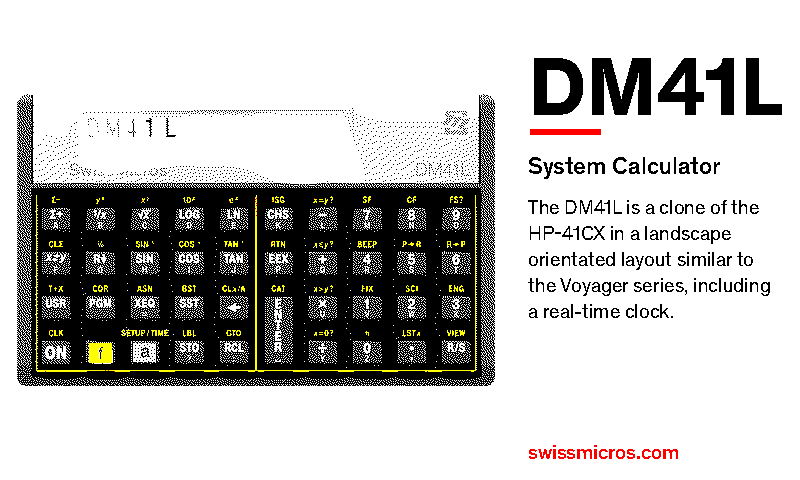
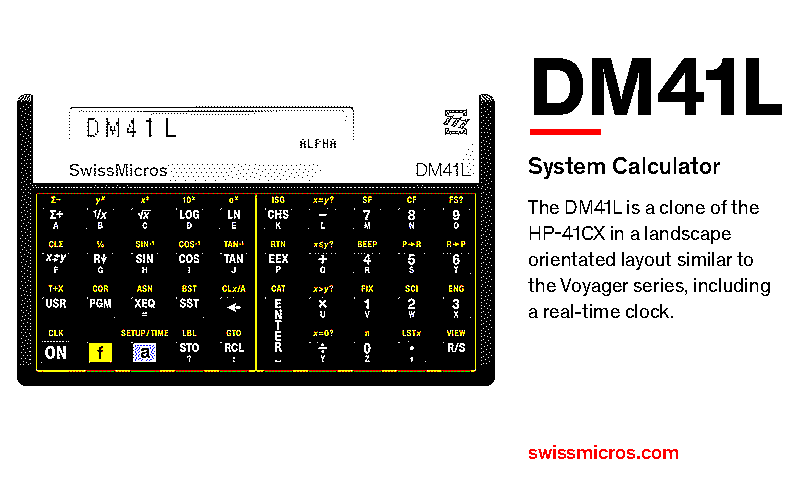
Improve calculator dithering: Atkinson with levels and sharpening
Floyd-Steinberg plus the 0.7 shadow gamma turned black bodies into a grey
checkerboard and dissolved key legends into speckle. Now: unsharp mask,
levels 30..225, then serpentine Atkinson diffusion, which keeps dark and
light areas solid and small text crisp.

diff --git a/tools/build_images.py b/tools/build_images.py
@@ -18,7 +18,7 @@ import urllib.request
 from pathlib import Path
 
 import numpy as np
-from PIL import Image, ImageDraw, ImageEnhance, ImageFont
+from PIL import Image, ImageDraw, ImageFilter, ImageFont
 
 SHOP = "https://www.swissmicros.com/en/products/"
 ROOT = Path(__file__).resolve().parent.parent
@@ -47,7 +47,7 @@ CALCULATORS = [
 PURE = [(0, 0, 0), (255, 255, 255), (255, 255, 0), (255, 0, 0), (0, 0, 255), (0, 255, 0)]
 PERCEIVED = [(25, 30, 33), (232, 232, 232), (239, 222, 68), (178, 19, 24), (33, 87, 186), (18, 95, 32)]
 BLACK, WHITE, RED = PURE[0], PURE[1], PURE[3]
-SHADOW_GAMMA = 0.7
+LEVEL_BLACK, LEVEL_WHITE = 30, 225  # stretched to 0..255 before dithering
 NEUTRAL_SATURATION = 90  # max(R,G,B)-min(R,G,B) below this is treated as grey
 
 
@@ -101,35 +101,37 @@ def fit_description(draw, text, font, width, max_lines) -> list[str]:
     return lines
 
 
+# Atkinson error diffusion: spreads only 6/8 of the error, so near-black bodies and
+# near-white LCDs stay solid and small key legends stay crisp (Floyd-Steinberg
+# turned them into speckle). (dx, dy, weight) relative to the current pixel.
+ATKINSON = [(1, 0, 1 / 8), (2, 0, 1 / 8), (-1, 1, 1 / 8), (0, 1, 1 / 8), (1, 1, 1 / 8), (0, 2, 1 / 8)]
+
+
 def dither(im: Image.Image) -> Image.Image:
-    """Floyd-Steinberg against the perceived palette. Near-neutral source pixels
-    (the calculator bodies and keys) may only use black/white, otherwise dark
-    greys turn into red/green noise; coloured pixels get the full palette."""
-    im = ImageEnhance.Contrast(im).enhance(1.15)
-    # Lift the shadows so dark keys stay distinguishable from the black body.
-    src = 255 * (np.asarray(im, dtype=np.float32) / 255) ** SHADOW_GAMMA
+    """Sharpen, stretch levels, then Atkinson-dither (serpentine) against the
+    perceived palette. Near-neutral pixels (calculator bodies, keys, LCDs) may
+    only use black/white, otherwise greys turn into red/green noise."""
+    im = im.filter(ImageFilter.UnsharpMask(radius=1.2, percent=120, threshold=2))
+    src = np.asarray(im, dtype=np.float32)
+    src = 255 * np.clip((src - LEVEL_BLACK) / (LEVEL_WHITE - LEVEL_BLACK), 0, 1)
     sat = src.max(axis=2) - src.min(axis=2)
     neutral = (sat < NEUTRAL_SATURATION) | (src.max(axis=2) < 100)  # greys and near-blacks
     buf = src.copy()
     perceived = np.array(PERCEIVED, dtype=np.float32)
-    out = np.zeros(src.shape[:2], dtype=np.uint8)
-    h, w = out.shape
+    h, w = neutral.shape
+    out = np.zeros((h, w), dtype=np.uint8)
     for y in range(h):
-        row, nxt = buf[y], buf[y + 1] if y + 1 < h else None
-        for x in range(w):
-            px = row[x]
+        rev = y % 2 == 1  # serpentine: alternate direction, avoids diagonal streaks
+        for x in range(w - 1, -1, -1) if rev else range(w):
+            px = buf[y, x]
             cand = perceived[:2] if neutral[y, x] else perceived
             idx = int(((cand - px) ** 2).sum(axis=1).argmin())
             out[y, x] = idx
             err = px - perceived[idx]
-            if x + 1 < w:
-                row[x + 1] += err * 7 / 16
-            if nxt is not None:
-                if x > 0:
-                    nxt[x - 1] += err * 3 / 16
-                nxt[x] += err * 5 / 16
-                if x + 1 < w:
-                    nxt[x + 1] += err * 1 / 16
+            for dx, dy, f in ATKINSON:
+                xx, yy = x - dx if rev else x + dx, y + dy
+                if 0 <= xx < w and yy < h:
+                    buf[yy, xx] += err * f
     return Image.fromarray(np.array(PURE, dtype=np.uint8)[out], "RGB")
 
 
